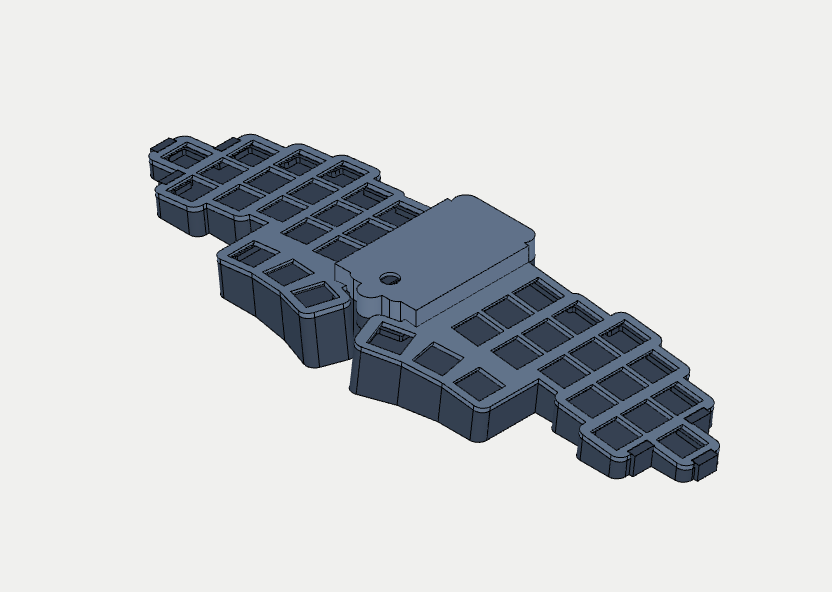
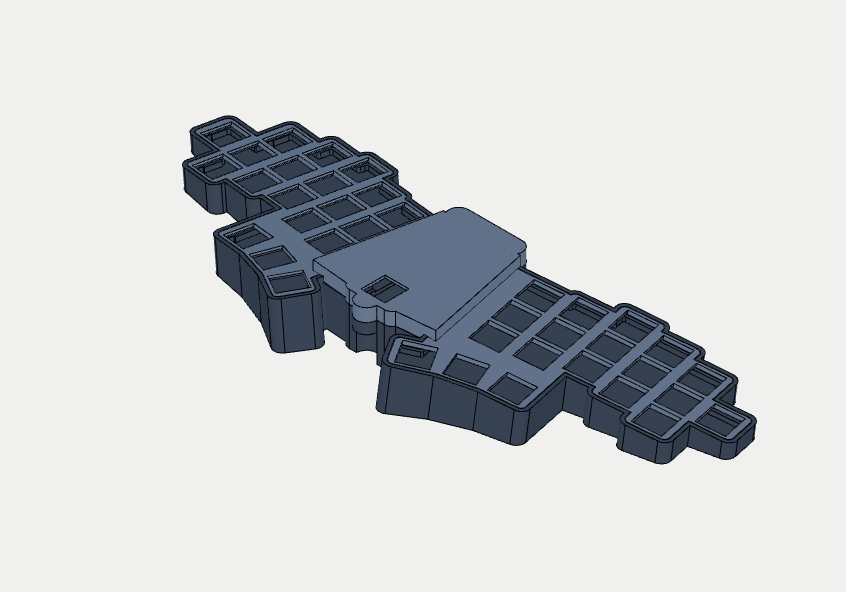
Splay the halves by 12° each
Each half now turns about a vertical axis through the top of its inner
edge after tenting, so its columns lean toward the middle at the top and
the thumbs move apart. The new parameter 'Splay per half (°)' defaults to
12°; the old Molekula with magnetic connectors had 18°.

Sketch planes of the halves are now built with world rotations about Y
and Z. Bridges and the middle cover over the plates follow the splayed
inner edges as quadrilaterals, and the cable passes reach far enough into
the middle. An extra box cut keeps the cover clear of the plates where
the outline cut fails silently at steep tenting. README renders updated.

Changed region(s): [[0.1562, 0.1824, 0.9062, 0.8209]]

diff --git a/case/fluidcad/shell.js b/case/fluidcad/shell.js
@@ -1,6 +1,6 @@
 import { circle, extrude, offset, param, plane, sketch } from 'fluidcad/core';
 import { boardThickness, boards, components } from './pcb-reference.js';
-import { boardHeight, halfTilt } from './layout.js';
+import { boardHeight, halfTilt, placement, point } from './layout.js';
 import { closed, rectangle, trace } from './outline.js';
 
 // Building blocks shared by the bottom and the top shell.
@@ -56,26 +56,39 @@ export function usbOpening() {
 
 /**
  * Sketch plane at height z0 in the frame of a region, in its final position, and the shift
- * dx that a KiCad X coordinate gets in the sketch (Y stays).
+ * (dx, dy) that a KiCad coordinate gets in the sketch.
  *
- * FluidCAD's plane('xy', { rotateY, offset }) puts the origin at (0, 0, offset) and rotates
- * the plane about Y around that point. For the halves (layout.js): world = A + Ry(φ)·(X, y, z)
- * with A = (axisX, 0, zh) on the pivot axis and X = x + shift − axisX. Equating with
- * (0, 0, o) + Ry(φ)·(u, y, 0) gives u = X + a, a = (axisX + z0·sin φ)/cos φ,
- * o = zh + a·sin φ + z0·cos φ.
+ * For the halves the board frame is placed by translations, the tilt about Y (phi) and the
+ * splay about Z (psi, layout.js): world = w0 + M·(x, y, 0) with M = Rz(psi)·Ry(phi) and
+ * w0 the world position of (0, 0, z0). FluidCAD's plane('xy', { rotateY, rotateZ,
+ * rotationAxes: 'world' }) turns the plane (0, 0, offset) about the world axes through the
+ * world origin, Y first, then Z: its points are M·(u, v, offset). With (a, b, c) = Mᵀ·w0 a
+ * board point lies at sketch (x + a, y + b) on the plane with offset c.
  */
 export function sketchPlane(region, p, z0) {
-  if (region === 'world') return { plane: plane('xy', { offset: z0 }), dx: 0 };
+  if (region === 'world') return { plane: plane('xy', { offset: z0 }), dx: 0, dy: 0 };
   const zh = boardHeight(p);
-  if (region === 'middle') return { plane: plane('xy', { offset: zh + z0 }), dx: 0 };
-  const { phi, axisX, shift } = halfTilt(region, p);
-  const w = (phi * Math.PI) / 180;
-  const a = (axisX + z0 * Math.sin(w)) / Math.cos(w);
-  const o = zh + a * Math.sin(w) + z0 * Math.cos(w);
-  return {
-    plane: Math.abs(phi) > 1e-9 ? plane('xy', { rotateY: phi, offset: o }) : plane('xy', { offset: o }),
-    dx: shift - axisX + a,
-  };
+  if (region === 'middle') return { plane: plane('xy', { offset: zh + z0 }), dx: 0, dy: 0 };
+  const { phi, psi } = halfTilt(region, p);
+  const steps = placement(region, p);
+  const w0 = point(steps, [0, 0, z0]);
+  // Columns of M: images of the unit vectors.
+  const col = e => point(steps, [e[0], e[1], z0 + e[2]]).map((v, i) => v - w0[i]);
+  const m = [col([1, 0, 0]), col([0, 1, 0]), col([0, 0, 1])];
+  const [a, b, c] = m.map(v => v[0] * w0[0] + v[1] * w0[1] + v[2] * w0[2]);
+  const options = { offset: c, rotationAxes: 'world' };
+  if (Math.abs(phi) > 1e-9) options.rotateY = phi;
+  if (Math.abs(psi) > 1e-9) options.rotateZ = psi;
+  return { plane: options.rotateY || options.rotateZ ? plane('xy', options) : plane('xy', { offset: c }), dx: a, dy: b };
+}
+
+/**
+ * World XY of a point given in the frame of a region (board bottom, z = 0). The frame of the
+ * middle is already in world XY (callers mirror KiCad X themselves).
+ */
+export function worldXY(region, p, xy) {
+  if (region === 'world' || region === 'middle') return xy;
+  return point(placement(region, p), [xy[0], xy[1], 0]).slice(0, 2);
 }
 
 /**
@@ -92,7 +105,7 @@ function apply(e, mode) {
 /** Height of the sketch plane: bottom for bodies, top for cuts. */
 const start = (mode, z0, z1) => (mode?.remove ? z1 : z0);
 
-const shiftSteps = (points, dx) => points.map(s => (s.length === 4 ? [s[0] + dx, s[1], s[2] + dx, s[3]] : [s[0] + dx, s[1]]));
+const shiftSteps = (points, dx, dy) => points.map(s => (s.length === 4 ? [s[0] + dx, s[1] + dy, s[2] + dx, s[3] + dy] : [s[0] + dx, s[1] + dy]));
 
 /**
  * Outline of a board, offset by distance (positive outward), as a prism from z0 to z1 in
@@ -100,9 +113,9 @@ const shiftSteps = (points, dx) => points.map(s => (s.length === 4 ? [s[0] + dx,
  */
 export function outlineBody(region, p, distance, z0, z1, name, mode = null, outline = region) {
   const b = boards[outline];
-  const { plane: e, dx } = sketchPlane(region, p, start(mode, z0, z1));
+  const { plane: e, dx, dy } = sketchPlane(region, p, start(mode, z0, z1));
   const s = sketch(e, () => {
-    const edges = trace(shiftSteps([b.start], dx)[0], shiftSteps(b.steps, dx));
+    const edges = trace(shiftSteps([b.start], dx, dy)[0], shiftSteps(b.steps, dx, dy));
     if (Math.abs(distance) > 1e-9) {
       edges.forEach(k => k.guide());
       offset(distance, ...edges);
@@ -113,14 +126,16 @@ export function outlineBody(region, p, distance, z0, z1, name, mode = null, outl
 
 /**
  * Rotated rectangles, each its own body (boolean operations only process the first part
- * of a multi-part tool body), as prisms from z0 to z1.
- * @param {{ center: number[], width: number, height: number, rotation?: number }[]} rects
+ * of a multi-part tool body), as prisms from z0 to z1. Instead of a rectangle an entry can
+ * give the corners of a polygon.
+ * @param {({ center: number[], width: number, height: number, rotation?: number } | { corners: number[][] })[]} rects
  */
 export function rectBodies(region, p, rects, z0, z1, name, mode = null) {
   return rects.map((r, i) => {
-    const { plane: e, dx } = sketchPlane(region, p, start(mode, z0, z1));
+    const { plane: e, dx, dy } = sketchPlane(region, p, start(mode, z0, z1));
     const s = sketch(e, () => {
-      closed(rectangle([r.center[0] + dx, r.center[1]], r.width, r.height, r.rotation ?? 0));
+      if (r.corners) closed(r.corners.map(c => [c[0] + dx, c[1] + dy]));
+      else closed(rectangle([r.center[0] + dx, r.center[1] + dy], r.width, r.height, r.rotation ?? 0));
     }).name(`${name} ${i + 1} · sketch`);
     return apply(extrude(z1 - z0, s), mode).name(rects.length > 1 ? `${name} ${i + 1}` : name);
   });
@@ -129,9 +144,9 @@ export function rectBodies(region, p, rects, z0, z1, name, mode = null) {
 /** Circles with diameter d, each its own body, as cylinders from z0 to z1. */
 export function circleBodies(region, p, centers, d, z0, z1, name, mode = null) {
   return centers.map((m, i) => {
-    const { plane: e, dx } = sketchPlane(region, p, start(mode, z0, z1));
+    const { plane: e, dx, dy } = sketchPlane(region, p, start(mode, z0, z1));
     const s = sketch(e, () => {
-      circle([m[0] + dx, m[1]], d);
+      circle([m[0] + dx, m[1] + dy], d);
     }).name(`${name} ${i + 1} · sketch`);
     return apply(extrude(z1 - z0, s), mode).name(centers.length > 1 ? `${name} ${i + 1}` : name);
   });
@@ -176,6 +191,24 @@ export function edgeRect(place, d0, d1, w) {
   };
 }
 
+/** y range of the bridges between middle and halves, and of the cover over the cable gap. */
+export const bridgeY = s => [-(63 + s.clearance + s.wall) + 0.1, -(8 - s.clearance - s.wall) - 0.1];
+
+/**
+ * Quadrilateral in world XY between the middle (at |x| = xMiddle) and a half (up to
+ * KiCad |x| = xHalf in the frame of the half, so it follows the splayed inner edge).
+ * @param {number} side -1 left, +1 right
+ */
+export function gapCorners(side, p, y, xMiddle, xHalf) {
+  const region = side < 0 ? 'left' : 'right';
+  return [
+    [side * xMiddle, y[0]],
+    worldXY(region, p, [side * xHalf, y[0]]),
+    worldXY(region, p, [side * xHalf, y[1]]),
+    [side * xMiddle, y[1]],
+  ];
+}
+
 /**
  * Bridge between the middle and a half (world, not tilted). Fills the gap left by the panel
  * tab and the cable gap between the outer walls and reaches a little into both pockets; the
@@ -183,14 +216,19 @@ export function edgeRect(place, d0, d1, w) {
  * @param {number} side -1 left, +1 right
  */
 export function bridge(side, p, s, z0, z1, name, mode = null) {
-  const xMiddle = 11.5;
-  const xHalf = 14.5 + p.cableGap + 1;
-  const y = [-(63 + s.clearance + s.wall) + 0.1, -(8 - s.clearance - s.wall) - 0.1];
-  return rectBodies(
-    'world', p,
-    [{ center: [(side * (xMiddle + xHalf)) / 2, (y[0] + y[1]) / 2], width: xHalf - xMiddle, height: y[1] - y[0] }],
-    z0, z1, name, mode,
-  )[0];
+  return rectBodies('world', p, [{ corners: gapCorners(side, p, bridgeY(s), 11.5, 14.5 + 1) }], z0, z1, name, mode)[0];
+}
+
+/**
+ * KiCad X in the frame of a half at which a line along X at KiCad y reaches world |x| =
+ * target in the middle. Ignores the tilt, which hardly moves points near the inner edge.
+ */
+export function reachIntoMiddle(side, p, y, target) {
+  const region = side < 0 ? 'left' : 'right';
+  const [x0] = worldXY(region, p, [0, y]);
+  const [x1] = worldXY(region, p, [side * 10, y]);
+  // World x is affine in KiCad x along the line.
+  return ((side * target - x0) / (x1 - x0)) * side * 10;
 }
 
 /** Large box in world coordinates. */

diff --git a/case/fluidcad/top-shell.part.js b/case/fluidcad/top-shell.part.js
@@ -1,7 +1,7 @@
 import { color, part } from 'fluidcad/core';
-import { boardHeight, layoutParams } from './layout.js';
+import { INNER_EDGE_X, boardHeight, layoutParams } from './layout.js';
 import { boardThickness, components, holes, switches } from './pcb-reference.js';
-import { ENCODER, circleBodies, outlineBody, rectBodies, shellParams, usbOpening } from './shell.js';
+import { ENCODER, bridgeY, circleBodies, gapCorners, outlineBody, reachIntoMiddle, rectBodies, shellParams, usbOpening } from './shell.js';
 
 // Top shell of the keyboard without magnetic connectors, in three print parts. Each has one
 // flat top face, so it prints upside down on that face without supports.
@@ -37,8 +37,6 @@ const PLATE_GAP = 0.2;
 // Heat-set inserts M2 in the middle cover: hole for the insert, then room for the screw tip.
 // The hole for the screw tip stops `tipCover` below the top of the cover.
 const INSERT = { boss: 6, hole: 3.2, depth: 4.5, tip: 2.0, tipCover: 1.2 };
-// Bridge between middle and half: y range like the bottom-shell bridge (shell.js).
-const BRIDGE_Y = (s) => [-(63 + s.clearance + s.wall) + 0.1, -(8 - s.clearance - s.wall) - 0.1];
 
 export const topShell = part('Molekula · Top shell', () => {
   const p = layoutParams();
@@ -55,18 +53,24 @@ export const topShell = part('Molekula · Top shell', () => {
   const plates = { left, right };
 
   // Middle cover over the cable gap and onto the plates, flat top at cover height.
-  const [y0, y1] = BRIDGE_Y(s);
   for (const side of [-1, 1]) {
-    const x0 = 11.5;
-    const x1 = 14.5 + p.cableGap + s.overlap;
-    rectBodies('world', p, [{ center: [(side * (x0 + x1)) / 2, (y0 + y1) / 2], width: x1 - x0, height: y1 - y0 }],
+    rectBodies('world', p, [{ corners: gapCorners(side, p, bridgeY(s), 11.5, 14.5 + s.overlap) }],
       zh + PT, zh + PT + s.coverHeight, `Middle · cover over the ${side < 0 ? 'left' : 'right'} plate`, { add: [middle] });
   }
   // Below the top of the plates (and a little around the wall of the pocket) everything
   // belongs to the bottom shell and the plates.
   for (const region of ['left', 'right']) {
-    outlineBody(region, p, outside + PLATE_GAP, -80, PT + s.plate,
+    outlineBody(region, p, outside + PLATE_GAP, -10, PT + s.plate,
       `${region === 'left' ? 'Left' : 'Right'} · room for the plate`, { remove: [middle] });
+  }
+  // The same once more as a plain box under the cover over the plate: with steep tenting
+  // and splay the cut above alone sometimes fails silently there.
+  for (const [region, side] of [['left', -1], ['right', 1]]) {
+    const [y0, y1] = bridgeY(s);
+    const x0 = INNER_EDGE_X - outside - PLATE_GAP;
+    const x1 = INNER_EDGE_X + s.overlap + 1;
+    rectBodies(region, p, [{ center: [(side * (x0 + x1)) / 2, (y0 - 1 + y1 + 0.6) / 2], width: x1 - x0, height: y1 - y0 + 1.6 }],
+      -10, PT + s.plate, `${region === 'left' ? 'Left' : 'Right'} · room for the plate under the cover`, { remove: [middle] });
   }
 
   for (const region of ['left', 'right']) {
@@ -84,7 +88,9 @@ export const topShell = part('Molekula · Top shell', () => {
   // Cable pass at the inner edges, through the plate and into the cover.
   for (const [region, side] of [['left', -1], ['right', 1]]) {
     const R = region === 'left' ? 'Left' : 'Right';
-    const x0 = side * (14.5 - p.cableGap - CABLE.intoMiddle);
+    // Into the middle far enough to cross its wall also when the half is splayed.
+    const into = Math.min(14.5 - p.cableGap - CABLE.intoMiddle, ...CABLE.y.map(y => side * reachIntoMiddle(side, p, y, 9.5)));
+    const x0 = side * into;
     const x1 = side * (14.5 + CABLE.intoHalf);
     rectBodies(region, p,
       [{ center: [(x0 + x1) / 2, (CABLE.y[0] + CABLE.y[1]) / 2], width: Math.abs(x1 - x0), height: CABLE.y[1] - CABLE.y[0] }],

diff --git a/case/fluidcad/layout.js b/case/fluidcad/layout.js
@@ -16,9 +16,15 @@ import { boardThickness, boards } from './pcb-reference.js';
 //   much higher the inner edges and the middle sit than on the flat keyboard. The angle
 //   follows from it so that the outer edges just touch the desk (wedge thickness 0 there).
 //   The middle sits flat at the height of the inner edges.
+// - Splay: then each half turns about a vertical axis through the top of its inner edge, so
+//   its columns lean toward the middle at the top and the thumbs move apart. The old
+//   Molekula with magnetic connectors had 18° per half. A turn about a vertical axis keeps
+//   the outer edges on the desk.
 
 /** Inner edge of the halves in KiCad X (±). */
 export const INNER_EDGE_X = 14.5;
+/** KiCad Y of the top end of the inner edge: the splay axis of the halves. */
+export const SPLAY_Y = -8;
 
 /**
  * Layout parameters. Called in the body of every part so all parts share the same
@@ -28,6 +34,7 @@ export function layoutParams() {
   const p = {
     wedge: param('Center wedge thickness (mm)', 15, 'number', { min: 0, max: 40, step: 0.5 }),
     pivotOffset: param('Pivot offset inward (mm)', 0, 'number', { min: 0, max: 30, step: 0.5 }),
+    splay: param('Splay per half (°)', 12, 'number', { min: 0, max: 25, step: 0.5 }),
     cableGap: param('Cable gap (mm)', 3, 'number', { min: 1, max: 15, step: 0.5 }),
     floor: param('Floor thickness (mm)', 1.6, 'number', { min: 1.2, max: 3, step: 0.1 }),
     underSpace: param('Space under the boards (mm)', 2.5, 'number', { min: 2, max: 6, step: 0.1 }),
@@ -88,18 +95,22 @@ export function placement(region, p) {
     const d = boardThickness / 2;
     return [{ t: [0, 0, -d] }, { r: ['y', 180] }, { t: [0, 0, d + z] }];
   }
-  const { phi, axisX, shift } = halfTilt(region, p);
+  const { phi, axisX, shift, psi, pivot } = halfTilt(region, p);
   return [
     { t: [shift, 0, z] },
     { t: [-axisX, 0, -z] },
     { r: ['y', phi] },
     { t: [axisX, 0, z] },
+    { t: [-pivot[0], -pivot[1], 0] },
+    { r: ['z', psi] },
+    { t: [pivot[0], pivot[1], 0] },
   ];
 }
 
 /**
  * Tilt of a half: angle about Y (phi), position of the pivot axis in X (axisX, at the
- * height of the board bottom) and outward shift by the cable gap.
+ * height of the board bottom) and outward shift by the cable gap. Splay: angle about Z (psi)
+ * and the world XY point the vertical splay axis goes through (pivot).
  * @param {'left' | 'right'} region
  */
 export function halfTilt(region, p) {
@@ -112,6 +123,10 @@ export function halfTilt(region, p) {
     phi: side * p.tenting,
     axisX: side * (INNER_EDGE_X + p.cableGap - p.pivotOffset),
     shift: side * p.cableGap,
+    // Positive turns about Z are counter-clockwise: the right half turns that way, so its
+    // columns lean toward the middle at the top.
+    psi: side * (p.splay ?? 0),
+    pivot: [side * (INNER_EDGE_X + p.cableGap), SPLAY_Y],
   };
 }
 

diff --git a/case/fluidcad/bottom-shell.part.js b/case/fluidcad/bottom-shell.part.js
@@ -2,7 +2,7 @@ import { color, part } from 'fluidcad/core';
 import { envelopes } from './envelopes.js';
 import { boardHeight, layoutParams } from './layout.js';
 import { boardThickness, components, holes, switches } from './pcb-reference.js';
-import { RIBS, bridge, circleBodies, edgeRect, outlineBody, rectBodies, shellParams, usbOpening, worldBox } from './shell.js';
+import { RIBS, bridge, circleBodies, edgeRect, outlineBody, reachIntoMiddle, rectBodies, shellParams, usbOpening, worldBox } from './shell.js';
 
 // Bottom shell of the keyboard without magnetic connectors: one piece for both halves and
 // the middle. The parting surface to the top shell is the top of each board.
@@ -83,7 +83,9 @@ export const bottomShell = part('Molekula · Bottom shell', () => {
     if (p.tenting > 0) outlineBody(region, p, s.clearance + s.wall + OVERLAP, PT, PT + 60, `${R} · above the parting surface`, { remove: [middle] });
     outlineBody(region, p, -s.ledge, -p.underSpace, 0.01, `${R} · space under the board`, { remove: target });
     outlineBody(region, p, s.clearance, 0, PT + s.plate + 1, `${R} · board and plate pocket`, { remove: target });
-    const x0 = side * (14.5 - p.cableGap - CABLE.intoMiddle);
+    // Into the middle far enough to cross its wall also when the half is splayed.
+    const into = Math.min(14.5 - p.cableGap - CABLE.intoMiddle, ...CABLE.y.map(y => side * reachIntoMiddle(side, p, y, 9.5)));
+    const x0 = side * into;
     const x1 = side * (14.5 + CABLE.intoHalf);
     rectBodies(region, p,
       [{ center: [(x0 + x1) / 2, (CABLE.y[0] + CABLE.y[1]) / 2], width: Math.abs(x1 - x0), height: CABLE.y[1] - CABLE.y[0] }],

diff --git a/case/fluidcad/keyboard.assembly.js b/case/fluidcad/keyboard.assembly.js
@@ -9,7 +9,9 @@ import { topShell } from './top-shell.part.js';
 //
 // Tenting is set by the wedge thickness at the middle: the middle and the inner edges sit
 // that much higher than on the flat keyboard, the outer edges stand on the desk. The angle
-// follows from it (15 mm ≈ 6.8°); the tilt runs from the outside in only.
+// follows from it (15 mm ≈ 6.8°); the tilt runs from the outside in only. The splay turns
+// each half about the top of its inner edge (12° per half by default, the old Molekula with
+// magnetic connectors had 18°).
 //
 // The configurations are starting points for experiments. The "Assembly Parameters" panel
 // lets you change the values freely and save them as a new configuration.
@@ -25,6 +27,7 @@ export const keyboard = assembly('Molekula · Keyboard', () => {
   const values = {
     'Center wedge thickness (mm)': param('Center wedge thickness (mm)', 15, 'number', { min: 0, max: 40, step: 0.5 }),
     'Pivot offset inward (mm)': param('Pivot offset inward (mm)', 0, 'number', { min: 0, max: 30, step: 0.5 }),
+    'Splay per half (°)': param('Splay per half (°)', 12, 'number', { min: 0, max: 25, step: 0.5 }),
     'Cable gap (mm)': param('Cable gap (mm)', 3, 'number', { min: 1, max: 15, step: 0.5 }),
     'Floor thickness (mm)': param('Floor thickness (mm)', 1.6, 'number', { min: 1.2, max: 3, step: 0.1 }),
     'Space under the boards (mm)': param('Space under the boards (mm)', 2.5, 'number', { min: 2, max: 6, step: 0.1 }),

diff --git a/README.md b/README.md
@@ -24,6 +24,8 @@ The two halves are joined by magnetic connector boards and can be separated. The
 
 ![Unibody case from the front: the halves rise toward the middle](images/unibody-tented-front.png)
 
+![Unibody case from above: the halves are splayed by 12° each](images/unibody-top.png)
+
 This variant has no magnetic connectors. It is one continuous case made of a bottom shell and a top shell that hide the FFC cables. The MCU board sits upside down in the middle, so the Helios and the encoder face up and the reset button is reachable from below. The nice!view is not used.
 
 ![Bottom shell with the two top plates and the middle cover, without components](images/unibody-shells.png)
@@ -39,9 +41,11 @@ Assembly: put the boards into the bottom shell and connect the cables. Press eac
 
 The halves are tented from the outside in, like a roof: the outer edges stand on the desk, and the inner edges and the middle are raised by the wedge thickness. There is no front-to-back tilt. The wedge is printed into the bottom shell.
 
-The model lives in [case/fluidcad/](case/fluidcad/) and is built with [FluidCAD](https://fluidcad.io) 0.0.51. Open [`keyboard.assembly.js`](case/fluidcad/keyboard.assembly.js) in the FluidCAD editor. The parameter **Center wedge thickness (mm)** sets the tenting; 15 mm corresponds to about 6.8°. The configurations Flat and Wedge 10/15/20/25 mm are starting points, and the parameter panel lets you save your own. The components are simplified envelope bodies so the editor stays responsive. **Detailed models (slow)** switches to the imported originals for a final check.
+The halves are also splayed: each one is turned about the top end of its inner edge, so the columns lean toward the middle at the top and the thumb clusters move apart. The default is 12° per half; the old Molekula with magnetic connectors had 18°. The middle cover grows into a trapezoid that covers the wider gap. Splayed by 12°, the FFC sockets on the halves are about 5–6 mm farther from those on the middle board than without splay, and the cable runs at a 12° angle, so the FFC cables need some slack.
 
-The bottom shell prints in one piece. Diagonally it needs a square of about 214 mm, so it fits a 256 × 256 mm bed. The three top parts each have one flat top face and print upside down on it, without supports; together they fit on one bed. In the model the bottom shell consists of three overlapping bodies. To get the bottom shell as one solid and the top parts already turned onto their top faces, as STEP and STL in `case/fluidcad/print/`, run:
+The model lives in [case/fluidcad/](case/fluidcad/) and is built with [FluidCAD](https://fluidcad.io) 0.0.51. Open [`keyboard.assembly.js`](case/fluidcad/keyboard.assembly.js) in the FluidCAD editor. The parameter **Center wedge thickness (mm)** sets the tenting; 15 mm corresponds to about 6.8°. **Splay per half (°)** sets the splay. The configurations Flat and Wedge 10/15/20/25 mm are starting points, and the parameter panel lets you save your own. The components are simplified envelope bodies so the editor stays responsive. **Detailed models (slow)** switches to the imported originals for a final check.
+
+The bottom shell prints in one piece. Diagonally it needs a square of about 221 mm, so it fits a 256 × 256 mm bed. The three top parts each have one flat top face and print upside down on it, without supports; together they fit on one bed. In the model the bottom shell consists of three overlapping bodies. To get the bottom shell as one solid and the top parts already turned onto their top faces, as STEP and STL in `case/fluidcad/print/`, run:
 
 ```sh
 node case/fluidcad/tools/print-files.mjs 15   # center wedge thickness in mm
@@ -49,6 +53,7 @@ node case/fluidcad/tools/print-files.mjs 15   # center wedge thickness in mm
 
 Still open:
 
+- The splay has not been test-printed yet; 12° is a starting point.
 - The crush ribs have not been test-printed yet. If the plates sit too tight or too loose, change the parameter **Gap between top plate and wall (mm)**.
 - The encoder knob is not modelled yet.
 - The battery sockets J7 and J12 on the top side of the key boards would collide with the plates if populated.
